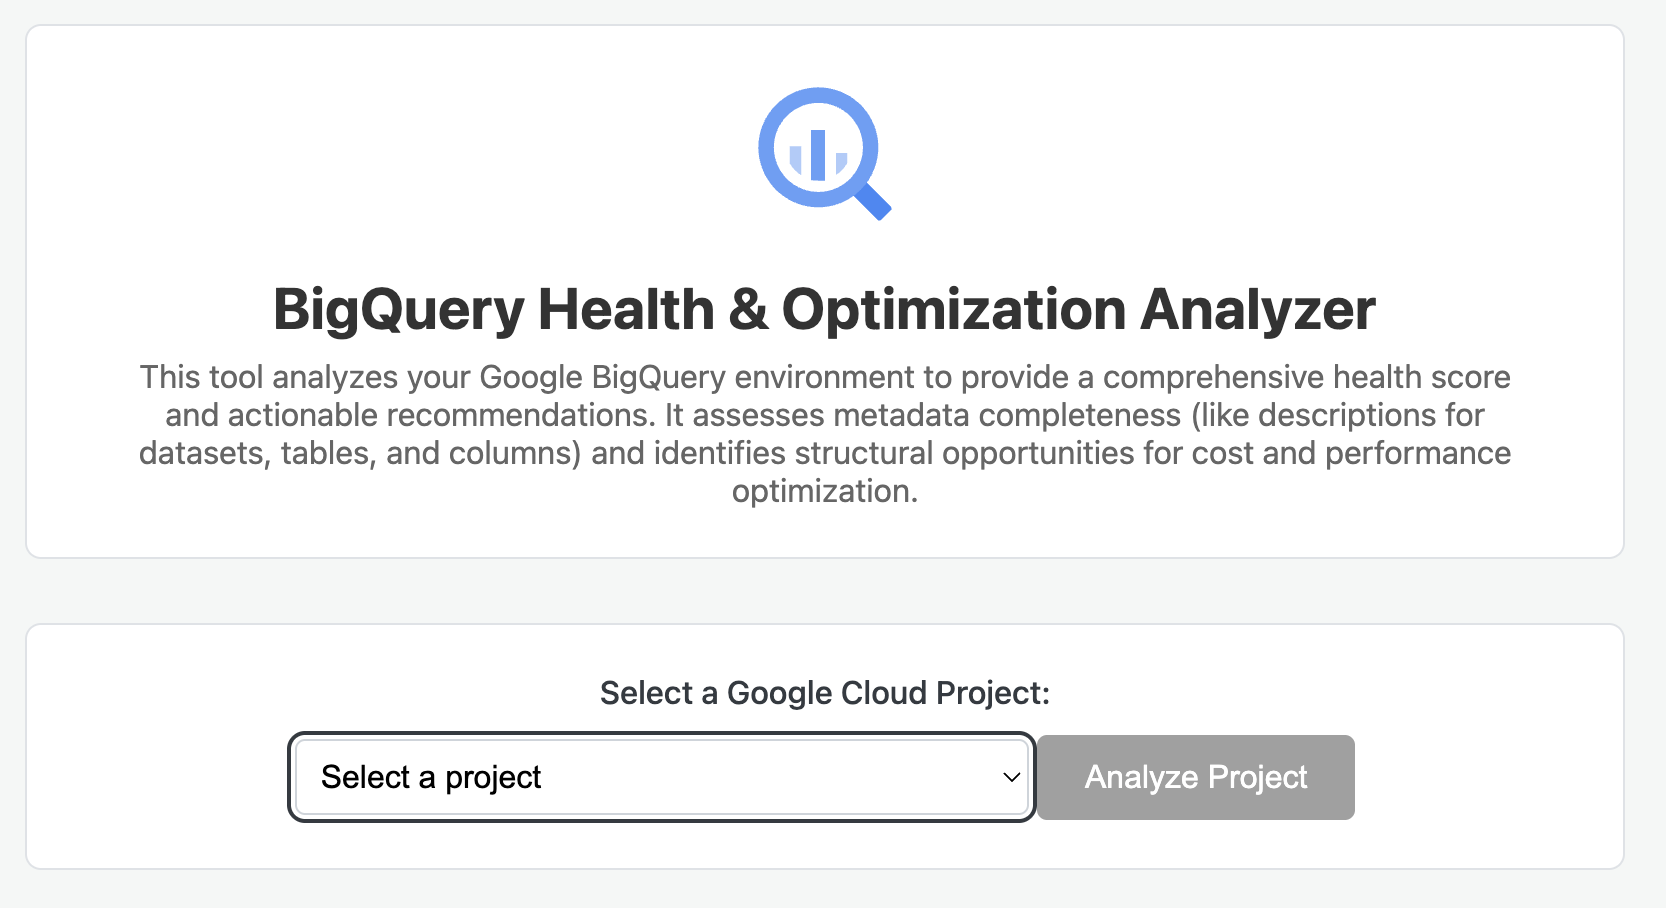
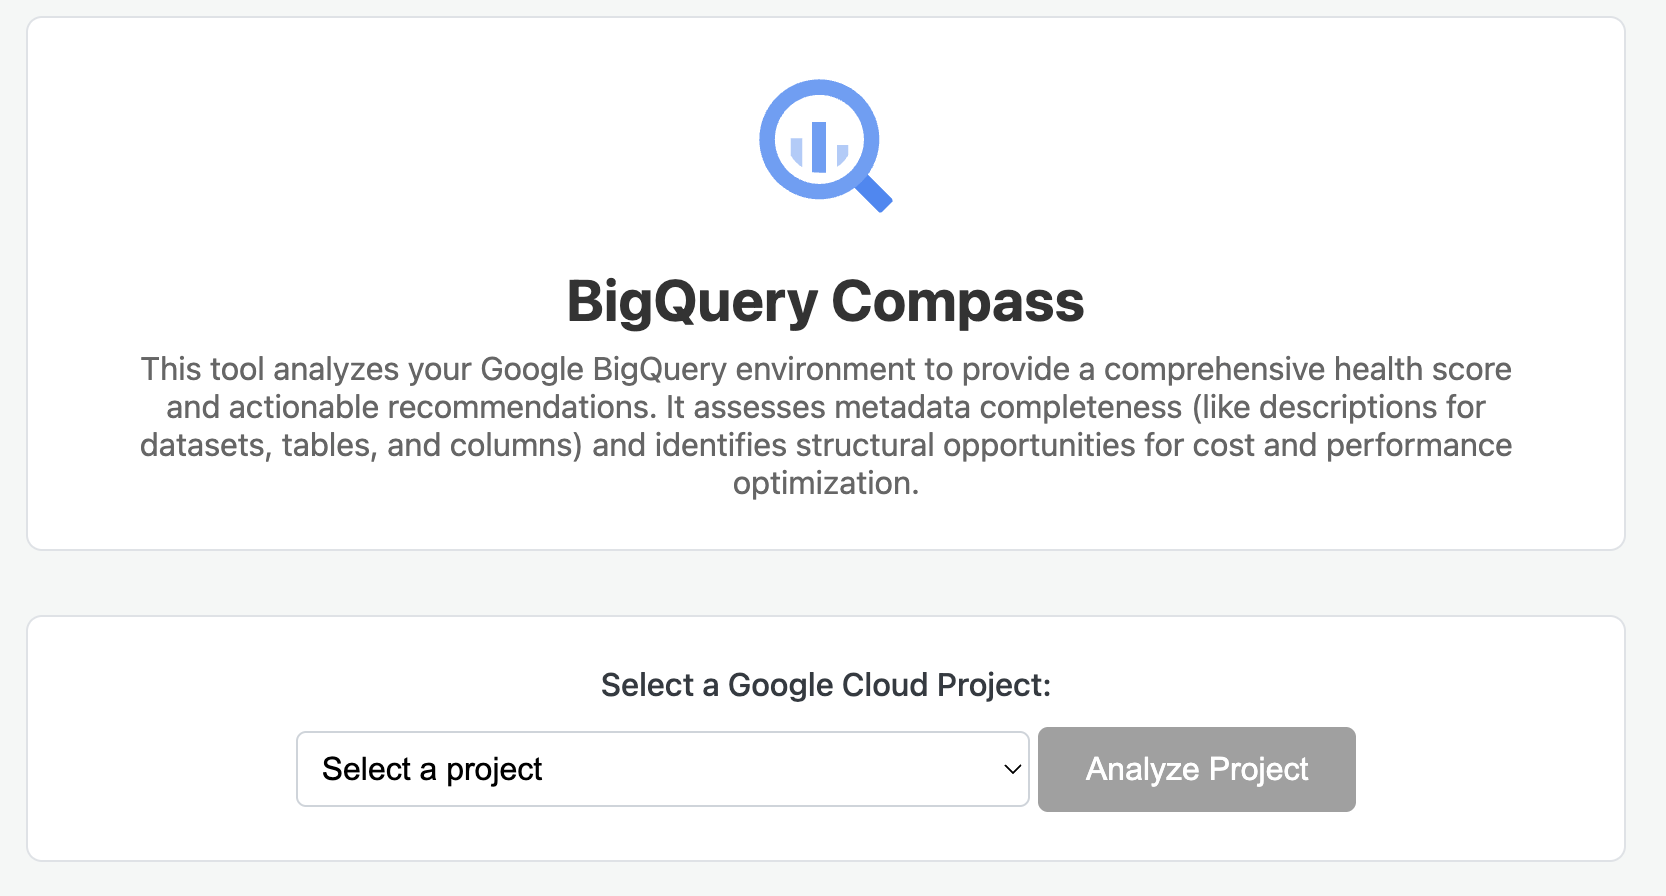
Changed name of application

diff --git a/frontend/index.html b/frontend/index.html
@@ -11,7 +11,7 @@
     <div class="container">
         <div class="app-description">
             <img src="bigquery.svg" alt="BigQuery Logo" class="logo-image">
-            <h1>BigQuery Health & Optimization Analyzer</h1>
+            <h1>BigQuery Compass</h1>
             <p>This tool analyzes your Google BigQuery environment to provide a comprehensive health score and actionable recommendations. It assesses metadata completeness (like descriptions for datasets, tables, and columns) and identifies structural opportunities for cost and performance optimization.</p>
         </div>
 

diff --git a/README.md b/README.md
@@ -1,4 +1,4 @@
-# BigQuery Health & Optimization Analyzer
+# BigQuery Compass
 
 This application uses a multi-agent AI system to perform a comprehensive analysis of a Google BigQuery environment. It provides an overall health score, detailed findings, and interactive, AI-powered recommendations to help you optimize for cost, performance, and metadata best practices.
 
